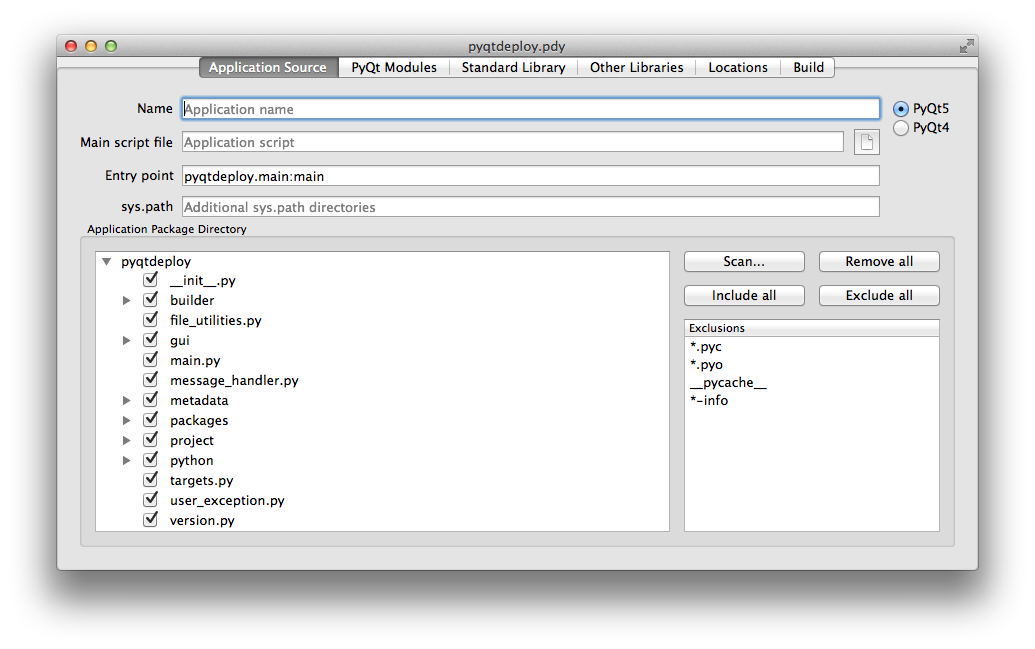
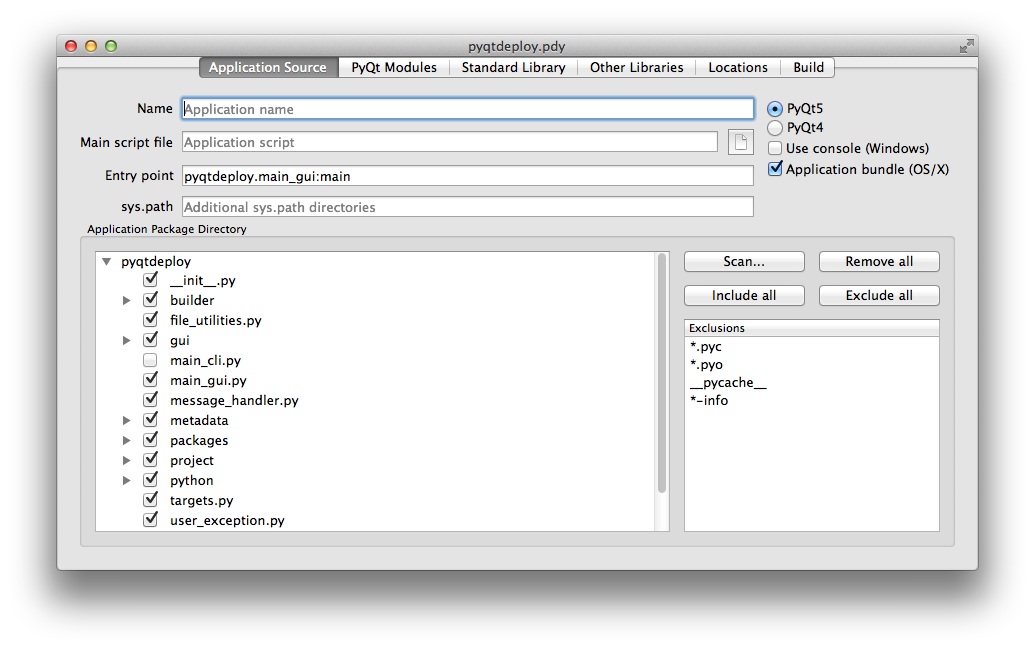
Implemented support for explicit console applications. Implemented support for non-bundle OS/X applications.

diff --git a/pyqtdeploy/builder/builder.py b/pyqtdeploy/builder/builder.py
@@ -52,7 +52,7 @@ class Builder():
         self._project = project
         self._message_handler = message_handler
 
-    def build(self, opt, build_dir=None, clean=False, console=False):
+    def build(self, opt, build_dir=None, clean=False):
         """ Build the project in a given directory.  Raise a UserException if
         there is an error.
         """
@@ -119,8 +119,8 @@ class Builder():
         freeze = self._copy_lib_file(self._get_lib_file_name('freeze.python'),
                 dst_file_name='freeze.py')
 
-        self._write_qmake(build_dir, required_ext, required_libraries, console,
-                freeze, opt)
+        self._write_qmake(build_dir, required_ext, required_libraries, freeze,
+                opt)
 
         # Freeze the bootstrap.
         py_major, py_minor = project.python_target_version
@@ -275,7 +275,7 @@ class Builder():
 
         return package_src_dir, package_name
 
-    def _write_qmake(self, build_dir, required_ext, required_libraries, console, freeze, opt):
+    def _write_qmake(self, build_dir, required_ext, required_libraries, freeze, opt):
         """ Create the .pro file for qmake. """
 
         project = self._project
@@ -315,10 +315,13 @@ class Builder():
         both_config.add('release')
         both_config.add('warn_on')
 
-        if not needs_gui or console:
+        if not needs_gui or project.application_is_console:
             both_config.add('console')
 
         f.write('CONFIG += {0}\n'.format(' '.join(both_config)))
+
+        if not project.application_is_bundle:
+            f.write('CONFIG -= app_bundle\n')
 
         if not needs_gui:
             f.write('QT -= gui\n')

diff --git a/pyqtdeploy/gui/build_page.py b/pyqtdeploy/gui/build_page.py
@@ -80,8 +80,6 @@ class BuildPage(QWidget):
 
         self._clean_button = QCheckBox("Clean before building", checked=True)
         options_layout.addWidget(self._clean_button)
-        self._console_button = QCheckBox("Capture console output")
-        options_layout.addWidget(self._console_button)
         self._verbose_button = QCheckBox("Verbose output")
         options_layout.addWidget(self._verbose_button)
 
@@ -143,8 +141,7 @@ class BuildPage(QWidget):
             opt = 0
 
         try:
-            builder.build(opt, clean=bool(self._clean_button.checkState()),
-                    console=bool(self._console_button.checkState()))
+            builder.build(opt, clean=bool(self._clean_button.checkState()))
         except UserException as e:
             logger.user_exception(e)
             handle_user_exception(e, self.label, self)
@@ -192,7 +189,7 @@ class BuildPage(QWidget):
             if sys.platform == 'win32':
                 application = os.path.join(build_dir, 'Release',
                         exe_name + '.exe')
-            elif sys.platform == 'darwin':
+            elif sys.platform == 'darwin' and project.application_is_bundle:
                 application = os.path.join(build_dir, exe_name + '.app',
                         'Contents', 'MacOS', exe_name)
             else:

diff --git a/pyqtdeploy/gui/application_page.py b/pyqtdeploy/gui/application_page.py
@@ -113,11 +113,11 @@ class ApplicationPage(QWidget):
         self._pyqt_versions_bg.buttonToggled.connect(
                 self._pyqt_version_changed)
 
-        self._console_edit = QCheckBox("Console application (Windows)",
+        self._console_edit = QCheckBox("Use console (Windows)",
                 stateChanged=self._console_changed)
         options_layout.addWidget(self._console_edit)
 
-        self._bundle_edit = QCheckBox("Application bundle (OS X)",
+        self._bundle_edit = QCheckBox("Application bundle (OS/X)",
                 stateChanged=self._bundle_changed)
         options_layout.addWidget(self._bundle_edit)
 

diff --git a/pyqtdeploy/main_gui.py b/pyqtdeploy/main_gui.py
@@ -38,7 +38,8 @@ def main():
 
     from PyQt5.QtWidgets import QApplication
 
-    from . import Project, ProjectGUI
+    from . import Project
+    from .gui import ProjectGUI
 
     app = QApplication(sys.argv, applicationName='pyqtdeploy',
                 organizationDomain='riverbankcomputing.com',

diff --git a/pyqtdeploy/__init__.py b/pyqtdeploy/__init__.py
@@ -26,7 +26,6 @@
 
 # Publish the package's API.
 from .builder import Builder
-from .gui import ProjectGUI
 from .message_handler import MessageHandler
 from .packages import configure_package, get_supported_packages
 from .project import Project

diff --git a/doc/tutorial.rst b/doc/tutorial.rst
@@ -175,15 +175,27 @@ The tab for defining the application source is shown below.
 **PyQt4**
     is used to specify that the application is a PyQt4 application.
 
-**Scan...**
-    is clicked to specify the name of the directory containing the Python
-    package that implements the application.  (If the application consists of a
-    single script then you would not use this.)  The hierachy will be scanned
-    for all files and directories that don't match any of the specified
-    exclusions and will be displayed in the main area of the tab.  Each file or
-    directory can then be checked if it is to be included in the package.  Note
-    that if the main script file is a part of the application package then it's
-    entry must be explicitly unchecked (i.e. excluded).
+**Use console (Windows)**
+    is checked if the application should use a console.  Specifically it adds
+    ``console`` to the value of ``CONFIG`` in the generated ``.pro`` file and
+    only affects Windows applications.  Normally this is handled automatically
+    and a console is used only if the application does not use any GUI related
+    PyQt module.  However it may be usefull during testing of deployed GUI
+    applications to ensure that tracebacks (e.g. about missing modules) are
+    captured and displayed.
+
+**Application bundle (OS/X)**
+    is checked if the application should be built as a bundle and only affects
+    OS/X applications.  It would normally be unchecked for command line (i.e.
+    non-GUI) applications.
+
+**Application Package Directory**
+    contains the hierachy of files and directories that implement the
+    application package and any associated data.  It is populated by clicking
+    the **Scan...** button.  Each file or directory can then be checked if it
+    is to be included in the package.  Note that if the main script file is a
+    part of the application package then it's entry must be explicitly
+    unchecked (i.e. excluded).
 
     .. note::
         Non-Python (i.e. data) files can also be included in the package.  An
@@ -193,6 +205,13 @@ The tab for defining the application source is shown below.
         the data file.  This approach will also work with deployed applications
         so long as the file is accessed using the :class:`~PyQt5.QtCore.QFile`
         class (rather than the standard Python file access functions).
+
+**Scan...**
+    is clicked to specify the name of the directory containing the Python
+    package that implements the application.  (If the application consists of a
+    single script then you would not use this.)  The hierachy will be scanned
+    for all files and directories that don't match any of the specified
+    exclusions and will be displayed in the **Application Package Directory**.
 
 **Remove all**
     is clicked to remove all the scanned files and directories.
@@ -405,17 +424,11 @@ The main area of the tab shows the output of the various stages of the build.
     Python code.
 
 **Clean before building**
-    is clicked to specify that the build directory is deleted and recreated
+    is checked to specify that the build directory is deleted and recreated
     before starting a new build.
 
-**Capture console output**
-    is clicked to specify that ``console`` is always added to the ``CONFIG``
-    variable in the generated ``.pro`` file.  This is only useful on Windows
-    and ensures that, even for a GUI application, tracebacks (e.g. about
-    missing modules) are captured and displayed.
-
 **Verbose output**
-    is clicked specify that additional information is displayed during the
+    is checked specify that additional information is displayed during the
     build process.
 
 **Run qmake**
